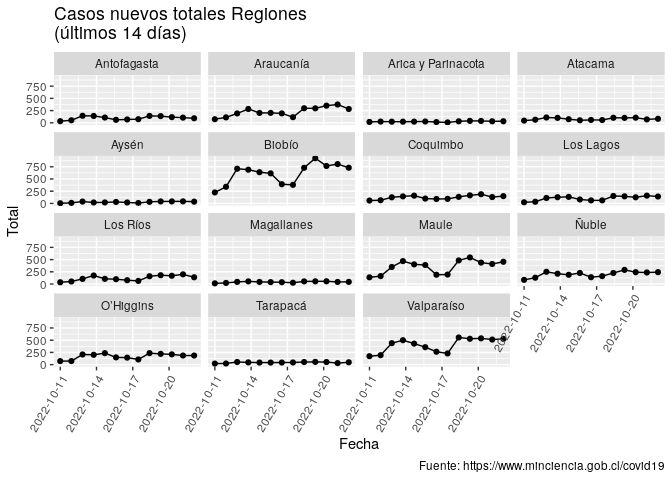
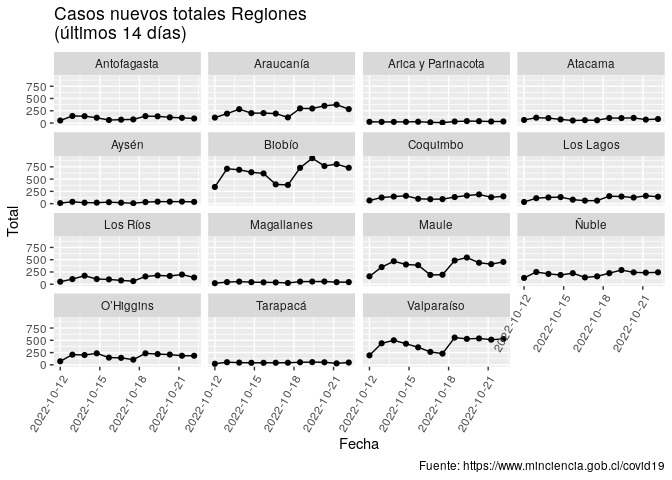
Re-build Rmarkdown files

diff --git a/README.md b/README.md
@@ -3,7 +3,7 @@
 
 Ejemplo de uso de total\_casos de COVID recopilados por el Ministerio de
 Ciencia de Chile <https://www.minciencia.gob.cl/covid19>. Última
-actualización: 2022-10-24
+actualización: 2022-10-25
 
 ## Visualización desde el comienzo de la pandemia
 
